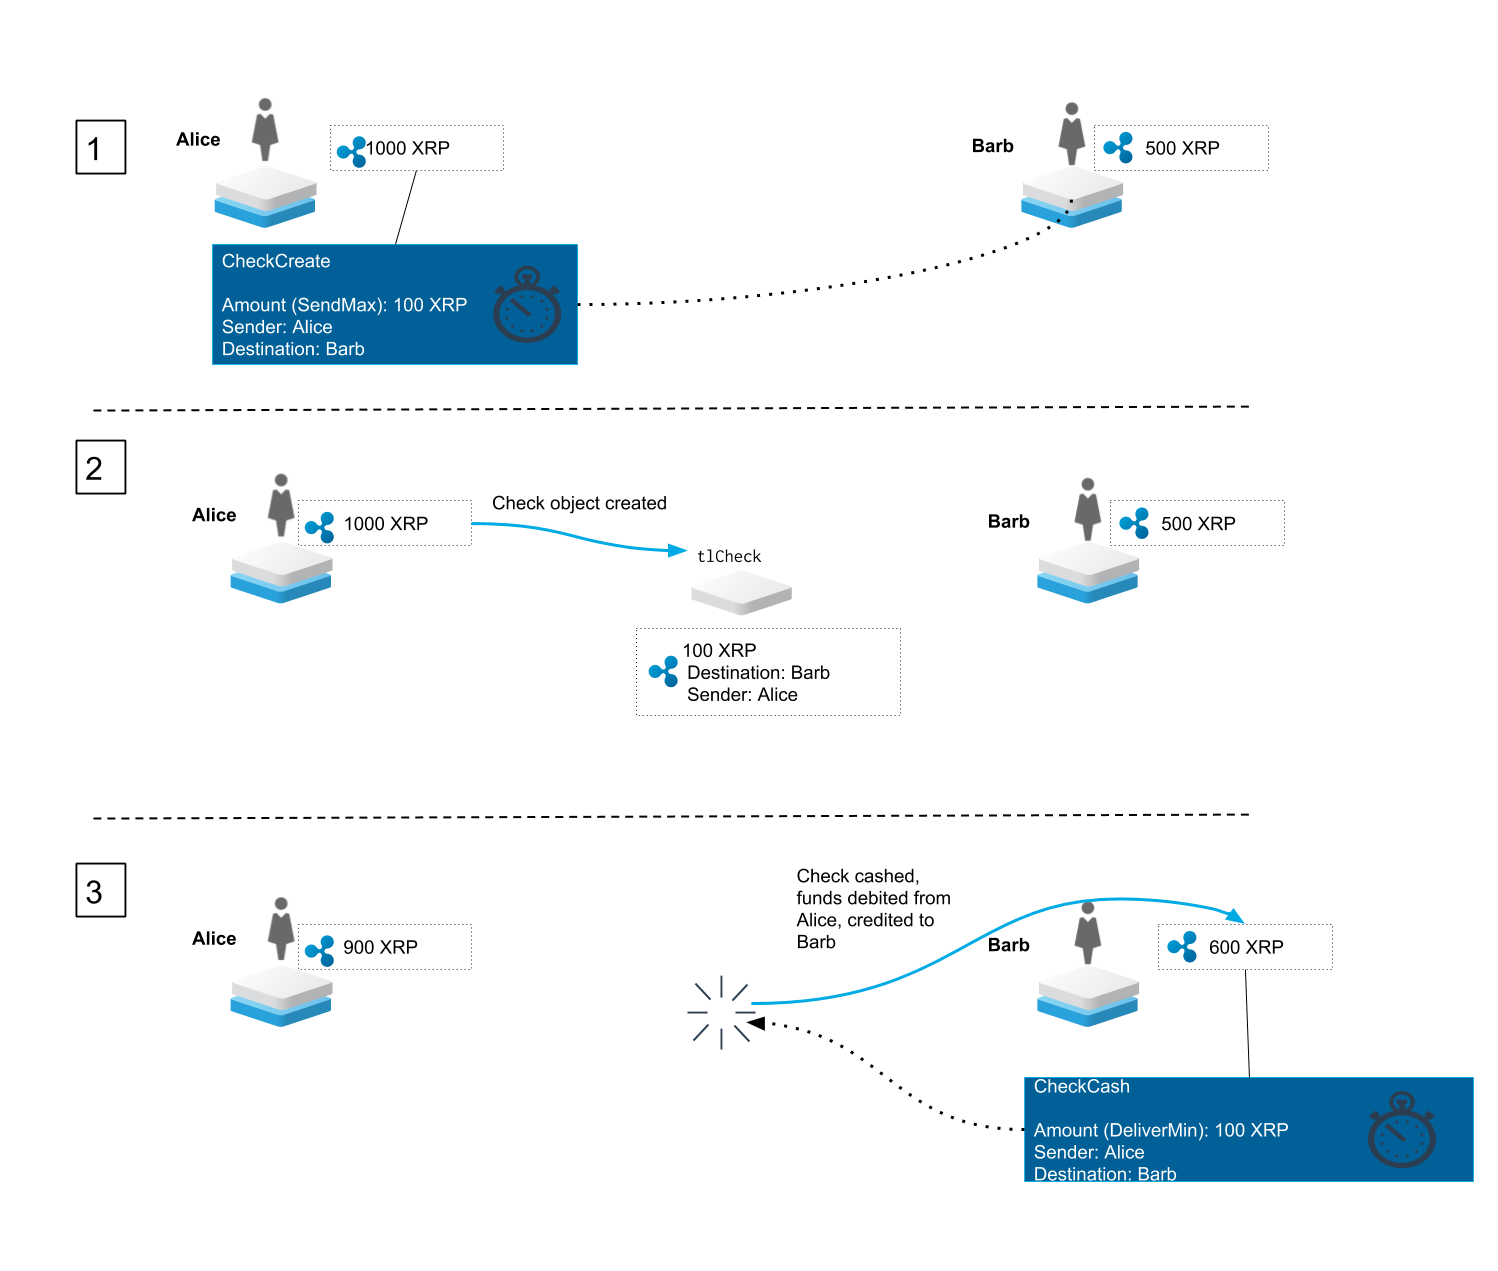
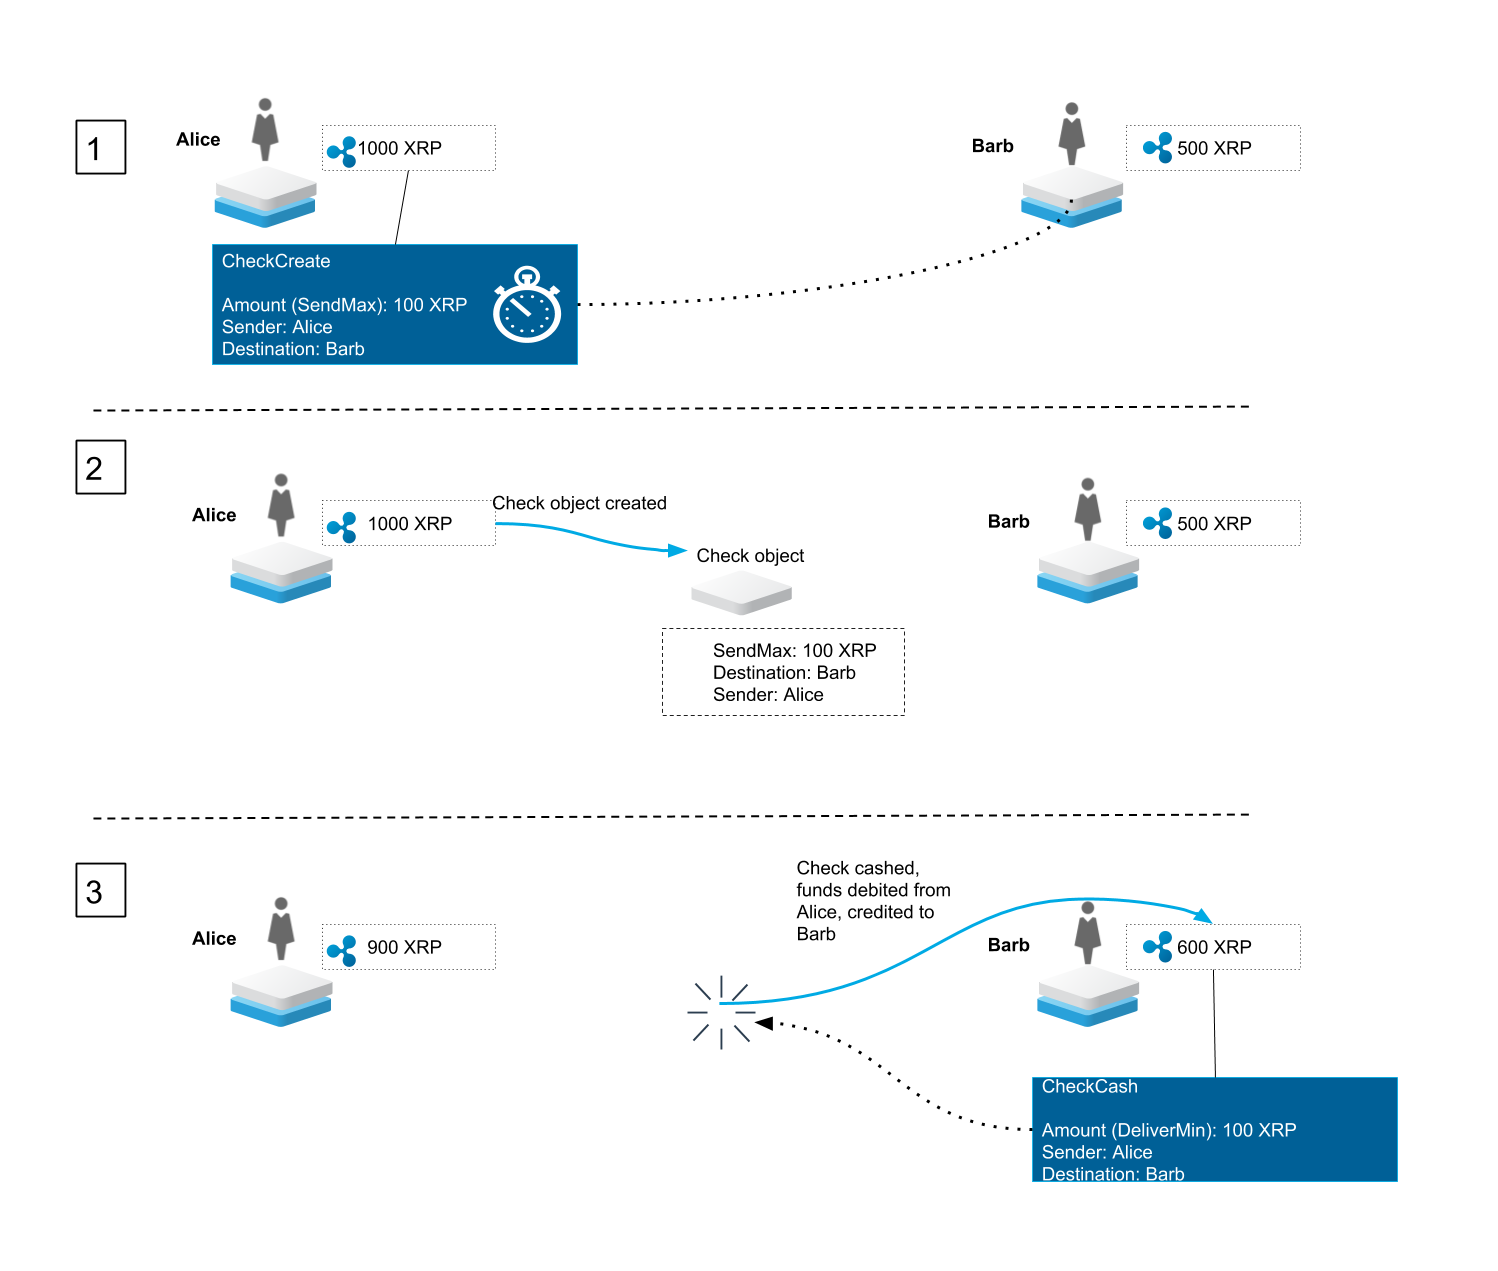
revised diagrams per mduo13 suggestions; added tx links include

diff --git a/content/concept-checks.md b/content/concept-checks.md
@@ -4,16 +4,16 @@ In the XRP Ledger, a Check is similar to a personal paper check. Like traditiona
 
 XRP Ledger Checks have expiration times after which they may no longer be cashed. If the receiver doesn't successfully cash the Check before it expires, the Check object remains in the XRP Ledger until someone cancels it. Anyone may cancel the Check after it expires. Only the sender and receiver can cancel the Check before it expires or is cashed. The Check object is removed from the Ledger when the sender successfully cashes the check or someone cancels it.
 
-Checks are similar to [Escrow](concept-escrow.html) and [Payment Channels](tutorial-paychan.html). But there are two important differences between those methods and Checks:
+Checks are similar to [Escrow](concept-escrow.html) and [Payment Channels](tutorial-paychan.html), but there are two important differences between those features and Checks:
 
 * You can send issued currency with Checks. With Payment Channels and Escrow, you can only send XRP.
 
 * Checks do not tie up any funds. The XRP involved in Payment Channels and Escrow cannot be spent until it is redeemed with a claim provided by the sender (Payment Channels), or released by an expiration or crypto-condition (Escrow).
 
-* You can send XRP to yourself through Escrow. You cannot use Checks or Payment Channels to send XRP (or, in the case of Checks, issued currencies) to yourself. 
+* You can send XRP to yourself through Escrow. You cannot use Checks or Payment Channels to send XRP (or, in the case of Checks, issued currencies) to yourself.
 
 
-***Note:*** The [Checks](reference-amendments.html#checks) amendment changes the expiration behavior of the [OfferCreate transaction](reference-transaction-format.html#offercreate). For more information, see [OfferCreate](reference-transaction-format.html#expiration).
+***Note:*** The [Checks amendment](reference-amendments.html#checks) changes the expiration behavior of the [OfferCreate][] transaction. For more information, see [Expiration](reference-transaction-format.html#expiration).
 
 
 ## Why Checks?
@@ -41,12 +41,12 @@ Checks typically have the lifecycle described below.
 
 [![Check flow diagram (successful cashing)](img/checks-happy_path.png)](img/checks-happy_path.png)
 
-**Step 1:** To create a Check, the sender submits a [CheckCreate](reference-transaction-format.html#checkcreate) transaction and specifies the receiver (`Destination`), expiration time (`Expiration`), and maximum amount that may be debited from the sender's account (`SendMax`).
+**Step 1:** To create a Check, the sender submits a [CheckCreate][] transaction and specifies the receiver (`Destination`), expiration time (`Expiration`), and maximum amount that may be debited from the sender's account (`SendMax`).
 
 
-**Step 2:** After the CheckCreate transaction is processed, a [Check object](reference-ledger-format.html#check) (`tlCheck`) is created on the XRP Ledger. This object contains the properties of the Check as defined by the transaction that created it. The object can only be modified by the sender (by canceling it with a [CheckCancel](reference-transaction-format.html#checkcancel) transaction) or receiver (by canceling it or cashing it) before the expiration time passes. After the expiration time, anyone may cancel the Check.
+**Step 2:** After the CheckCreate transaction is processed, a [Check object](reference-ledger-format.html#check) is created on the XRP Ledger. This object contains the properties of the Check as defined by the transaction that created it. The object can only be modified by the sender (by canceling it with a [CheckCancel][] transaction) or receiver (by canceling it or cashing it) before the expiration time passes. After the expiration time, anyone may cancel the Check.
 
-**Step 3:** To cash the check, the receiver submits a [CheckCash](reference-transaction-format.html#checkcash) transaction. The receiver has two options for cashing the check:
+**Step 3:** To cash the check, the receiver submits a [CheckCash][] transaction. The receiver has two options for cashing the check:
 
 * `Amount` — The receiver can use this option to specify an exact amount to cash. This may be useful for cases where the sender has padded the check to cover possible [transfer fees](concept-transfer-fees.html) and the receiver can only accept the exact amount on an invoice or other contract.
 
@@ -70,7 +70,7 @@ All Checks start the same way, so **Steps 1 and 2** are the same.
 
 **Step 3a:** If the Check expires before the receiver can cash it, the Check can no longer be cashed but remains in the ledger.
 
-**Step 4a:** After a Check expires, anyone may cancel it by submitting a [CheckCancel](reference-transaction-format.html#checkcancel) transaction. That transaction removes the Check from the ledger.  
+**Step 4a:** After a Check expires, anyone may cancel it by submitting a [CheckCancel][] transaction. That transaction removes the Check from the ledger.  
 
 
 
@@ -89,12 +89,15 @@ For more information about Checks in the XRP Ledger, see:
 
 * [Transaction Reference](reference-transaction-format.html#transaction-types)
   * [Checks amendment](reference-amendments.html#checks)
-  * [CheckCreate](reference-transaction-format.html#checkcreate)
-  * [CheckCash](reference-transaction-format.html#checkcash)
-  * [CheckCancel](reference-transaction-format.html#checkcancel)
+  * [CheckCreate][]
+  * [CheckCash][]
+  * [CheckCancel][]
 
 For more information about related features, see:
 
 * [Deposit Authorization](concept-depositauth.html)
 * [Escrow](concept-escrow.html)
 * [Payment Channels Tutorial](tutorial-paychan.html)
+
+
+{% include 'snippets/tx-type-links.md' %}
